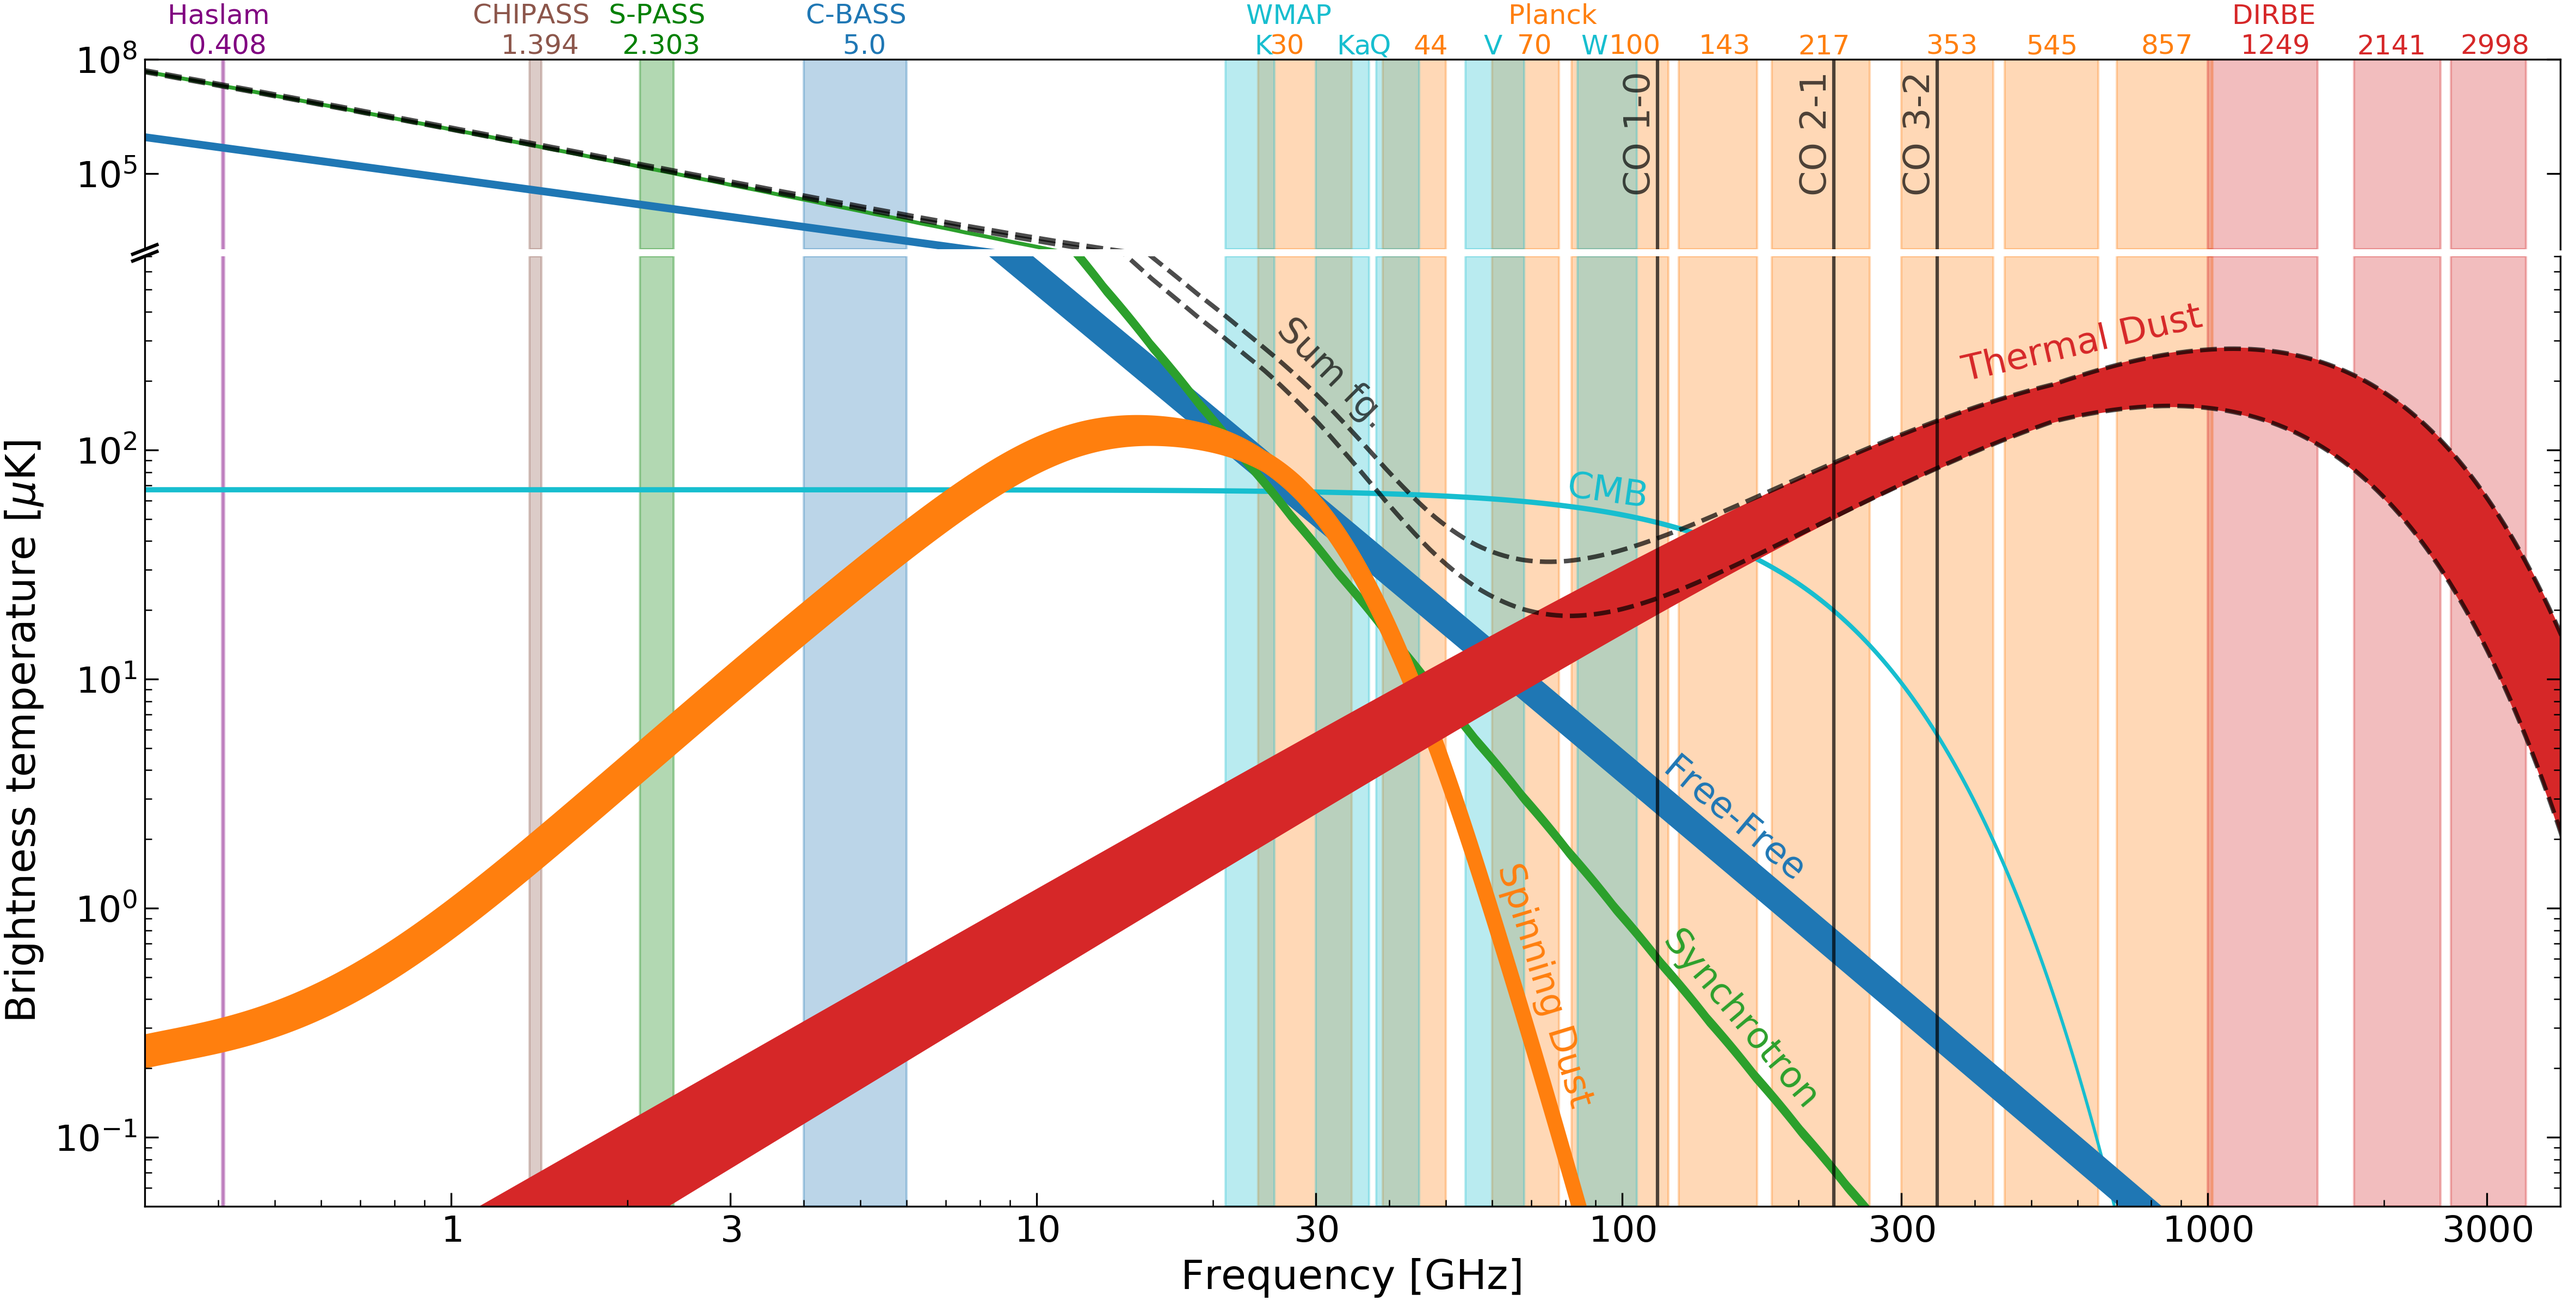
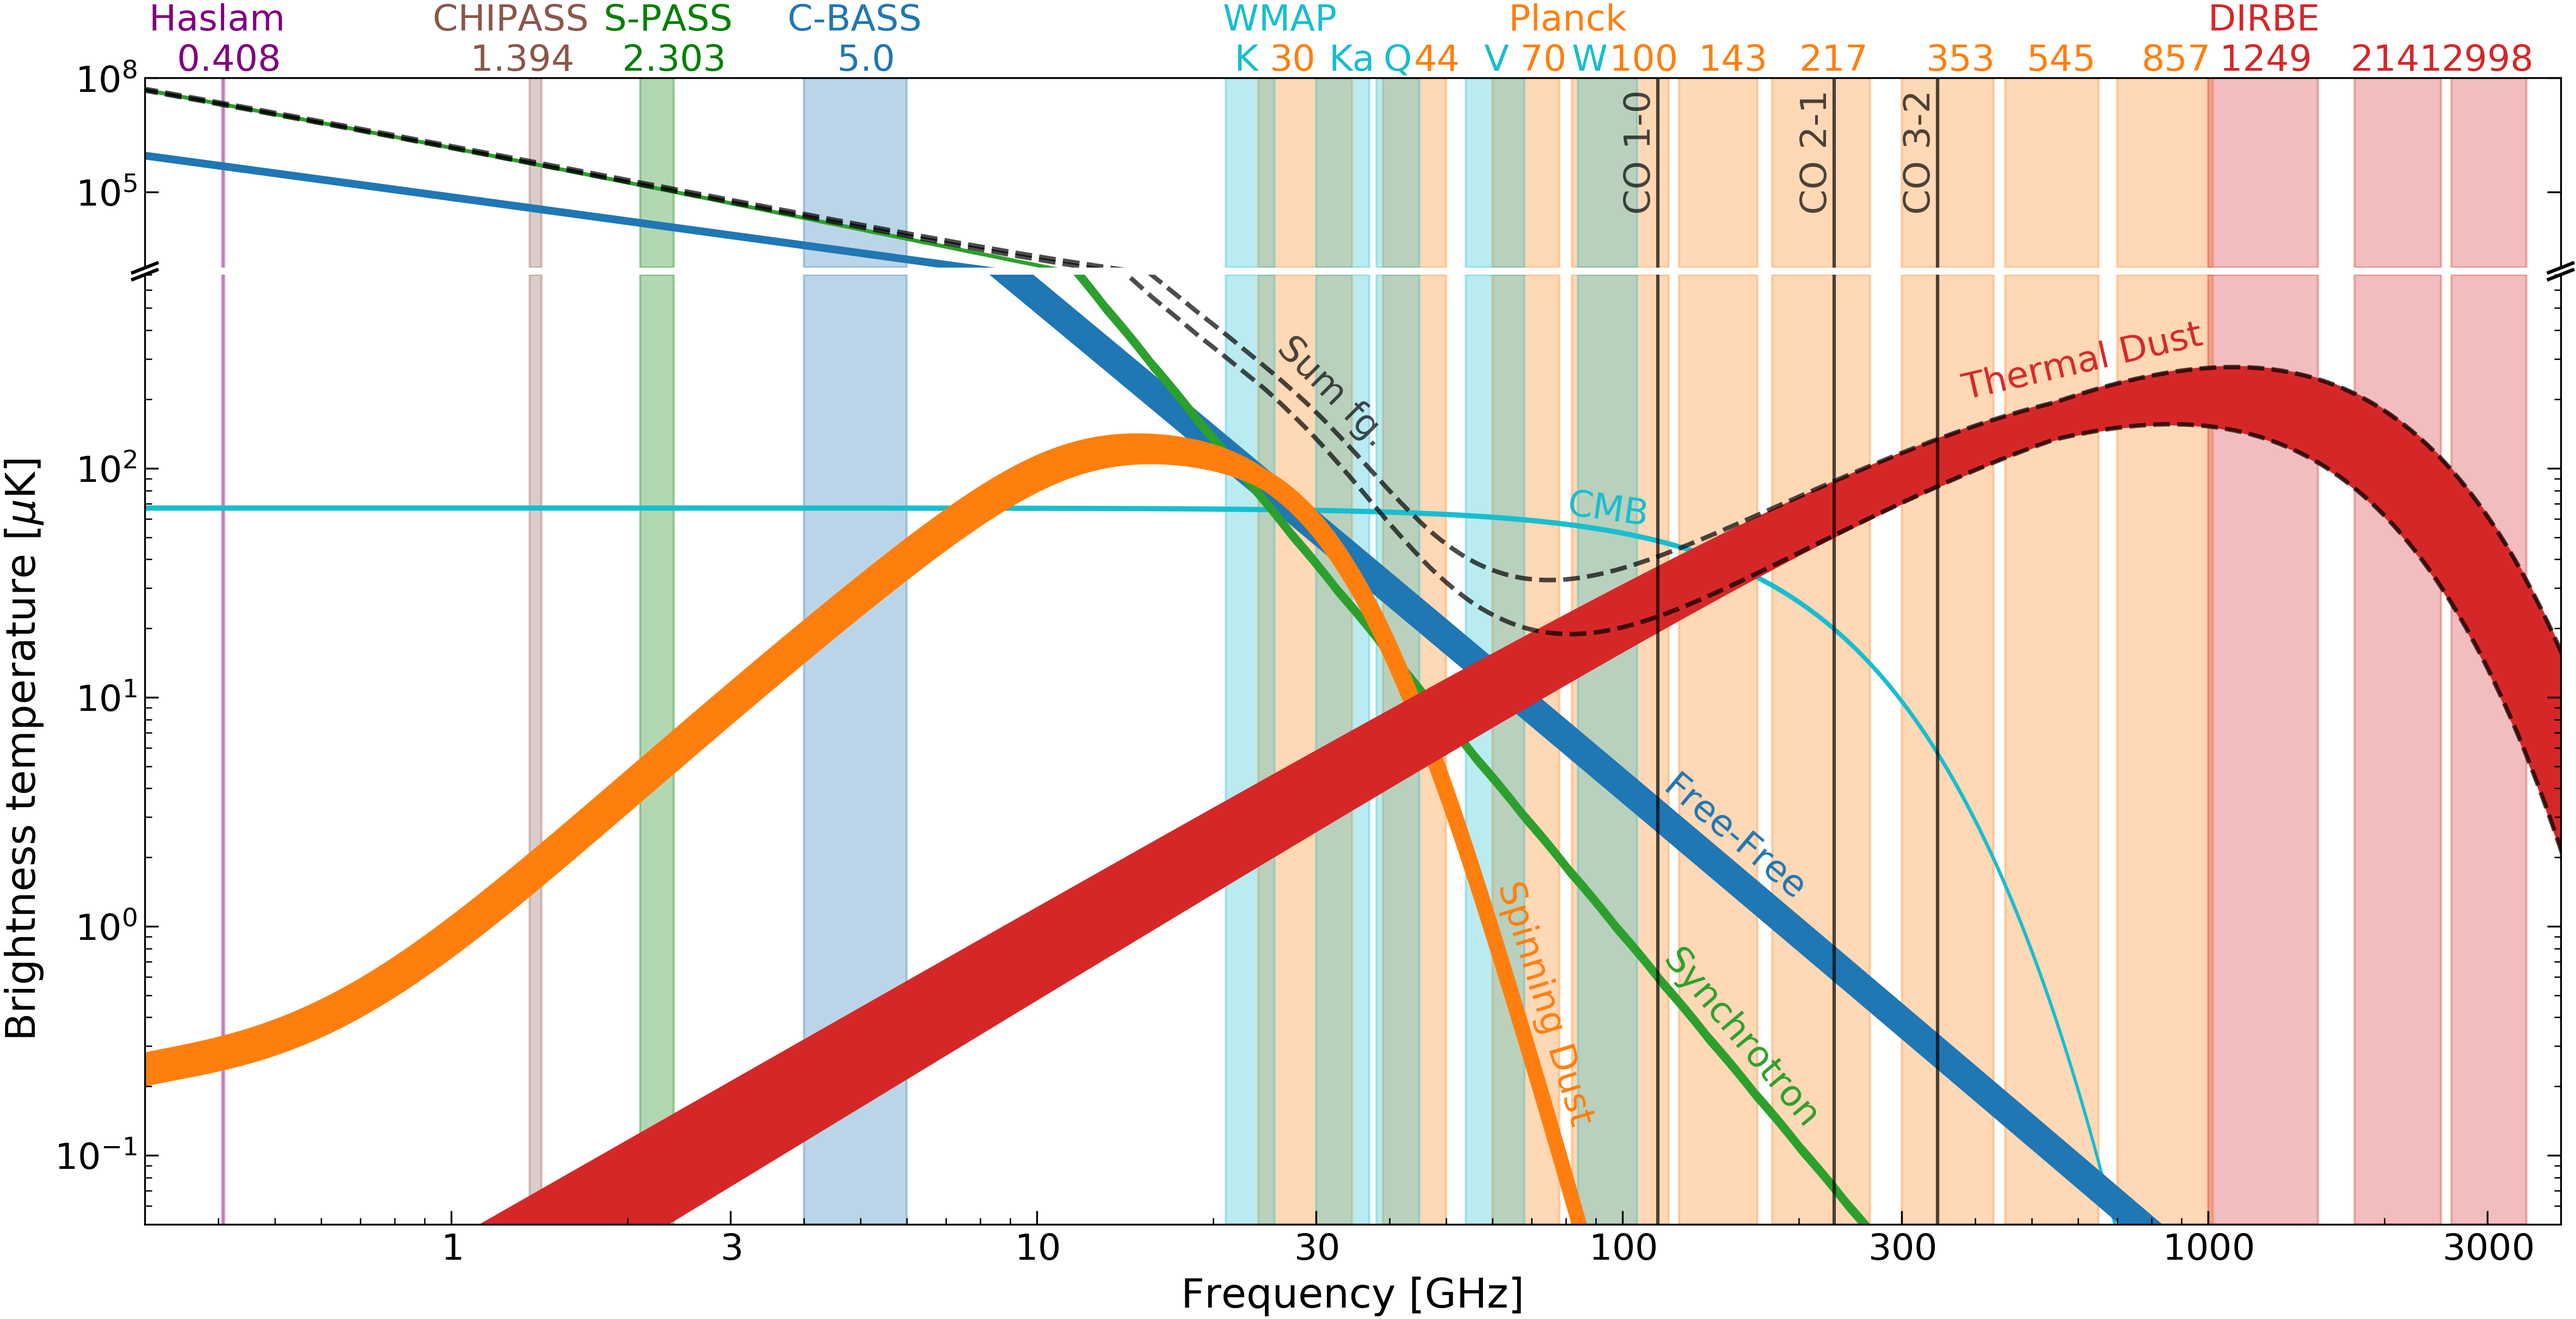
Increased column textsize, fixed brokenaxis

diff --git a/spectrum.py b/spectrum.py
@@ -87,7 +87,7 @@ def lf(nu,Alf,betalf):
 
 
 # ---- Calculating spectra ----
-pol = True
+pol = False
 long = True
 
 N = 1000
@@ -170,21 +170,21 @@ if long:
     ymax=7e2
     ymax2=1e8#ymax+1e8
     ymax15=1000#ymax+500
-    freqtext = 12
-    fgtext = 16
 
     fig, (ax2, ax) = plt.subplots(2,1,sharex=True,figsize=(16,8),gridspec_kw = {'height_ratios':[1, ratio]})
     ax2.spines['bottom'].set_visible(False)
     ax.spines['top'].set_visible(False)
-    ax2.tick_params(labelbottom='off')
+    ax2.tick_params(labelbottom=False)
     ax2.xaxis.set_ticks_position('none')
 
     # ---- Adding broken axis lines ----
     d = .005  # how big to make the diagonal lines in axes coordinates
     kwargs = dict(transform=ax2.transAxes, color='k', clip_on=False)
     ax2.plot((-d, +d), (-d*ratio, + d*ratio), **kwargs)        # top-left diagonal
+    ax2.plot((1 - d, 1 + d), (-d*ratio, +d*ratio), **kwargs)  # top-right diagonal
     kwargs.update(transform=ax.transAxes)  # switch to the bottom axes
     ax.plot((-d, +d), (1 - d, 1 + d), **kwargs)  # bottom-left diagonal
+    ax.plot((1 - d, 1 + d), (1 - d, 1 + d), **kwargs)  # bottom-right diagonal
 
 else:
     xmin=10
@@ -193,11 +193,14 @@ else:
     ymax=7e2
     ymax2=ymax
     ymax15=ymax
-    freqtext = 12
-    fgtext = 16
 
     fig, ax = plt.subplots(1,1,figsize=(12,8))
     ax2 = ax
+
+freqtext = 16
+fgtext = 16
+labelsize = 18
+ticksize = 16
 
 
 if pol:
@@ -338,7 +341,7 @@ if long:
         ax2.axvspan(band_range1[0],band_range1[1],color='purple',alpha=baralpha, zorder=0)
 
     if spass:
-        ax2.text(np.mean(band_range2),ymax2-0.2," S-PASS \n 2.303",color='green',va='bottom',horizontalalignment='center', size = freqtext)
+        ax2.text(np.mean(band_range2)+.1 ,ymax2-0.2," S-PASS \n 2.303",color='green',va='bottom',horizontalalignment='center', size = freqtext)
         ax.axvspan(band_range2[0],band_range2[1],color='green',alpha=baralpha, zorder=0, label="S-PASS")
         ax2.axvspan(band_range2[0],band_range2[1],color='green',alpha=baralpha, zorder=0)
 
@@ -348,7 +351,7 @@ if long:
         ax2.axvspan(band_range20[0],band_range20[1],color='C0',alpha=baralpha, zorder=0)
 
     if chipass and not pol:
-        ax2.text(np.mean(band_range27),ymax2-0.2,"CHIPASS \n 1.394",color='C5', va='bottom',horizontalalignment='center', size = freqtext)
+        ax2.text(np.mean(band_range27)-0.1,ymax2-0.2,"CHIPASS \n 1.394",color='C5', va='bottom',horizontalalignment='center', size = freqtext)
         ax.axvspan(band_range27[0],band_range27[1],color='C5',alpha=baralpha, zorder=0,label='CHIPASS')
         ax2.axvspan(band_range27[0],band_range27[1],color='C5',alpha=baralpha, zorder=0)
 
@@ -414,11 +417,11 @@ if planck:
 
 # ---- Plotting WMAP ----
 if wmap:
-    ax2.text(22.8,ymax2-0.2,"WMAP \n K ", color='C9' ,va='bottom',alpha=1, size = freqtext)
-    ax2.text(31.5+1,ymax2-0.2,"Ka",color='C9', va='bottom',alpha=1, size = freqtext)
-    ax2.text(39.-2, ymax2-0.2,"Q", color='C9' ,va='bottom',alpha=1, size = freqtext)
-    ax2.text(58., ymax2-0.2,"V", color='C9' ,va='bottom',alpha=1, size = freqtext)
-    ax2.text(90.-5, ymax2-0.2,"W", color='C9' ,va='bottom',alpha=1, size = freqtext)
+    ax2.text(22.8 -2  , ymax2-0.2,"WMAP \n K ", color='C9' ,va='bottom',alpha=1, size = freqtext)
+    ax2.text(31.5   , ymax2-0.2,"Ka",color='C9', va='bottom',alpha=1, size = freqtext)
+    ax2.text(39.  , ymax2-0.2,"Q", color='C9' ,va='bottom',alpha=1, size = freqtext)
+    ax2.text(58.    , ymax2-0.2,"V", color='C9' ,va='bottom',alpha=1, size = freqtext)
+    ax2.text(90.-8   , ymax2-0.2,"W", color='C9' ,va='bottom',alpha=1, size = freqtext)
 
     ax.axvspan(band_range3[0],band_range3[1],color='C9',alpha=baralpha, zorder=0,label='WMAP')
     ax.axvspan(band_range4[0],band_range4[1],color='C9',alpha=baralpha, zorder=0)
@@ -434,9 +437,9 @@ if wmap:
 
 # ---- Plotting DIRBE ----
 if dirbe and not pol and long:
-    ax2.text(1100,ymax2-0.2,"DIRBE \n 1249",color='C3', va='bottom',alpha=1, size = freqtext)
-    ax2.text(1800,ymax2-0.2,"2141",color='C3', va='bottom',alpha=1, size = freqtext)
-    ax2.text(2700,ymax2-0.2,"2998",color='C3', va='bottom',alpha=1, size = freqtext)
+    ax2.text(1000  ,ymax2-0.2,"DIRBE \n 1249",color='C3', va='bottom',alpha=1, size = freqtext)
+    ax2.text(1750  ,ymax2-0.2,"2141",color='C3', va='bottom',alpha=1, size = freqtext)
+    ax2.text(2500  ,ymax2-0.2,"2998",color='C3', va='bottom',alpha=1, size = freqtext)
 
     ax.axvspan(band_range17[0],band_range17[1],color='C3',alpha=baralpha, zorder=0,label='DIRBE')
     ax.axvspan(band_range18[0],band_range18[1],color='C3',alpha=baralpha, zorder=0)
@@ -450,14 +453,14 @@ if dirbe and not pol and long:
 ax.set_xticks(np.append(ax.get_xticks(),[3,30,300,3000]))
 ax.set_xticklabels(np.append(ax.get_xticks(),300))
 ax.xaxis.set_major_formatter(ticker.ScalarFormatter(useMathText=True))
-ax.tick_params(axis='both', which='major', labelsize=16, direction='in')
+ax.tick_params(axis='both', which='major', labelsize=ticksize, direction='in')
 ax.tick_params(which="both",direction="in")
 
-ax2.tick_params(axis='both', which='major', labelsize=16, direction='in')
+ax2.tick_params(axis='both', which='major', labelsize=ticksize, direction='in')
 ax2.tick_params(which="both",direction="in")
 
-plt.ylabel(r"Brightness temperature [$\mu$K]",fontsize=18)
-plt.xlabel(r"Frequency [GHz]",fontsize=18)
+plt.ylabel(r"Brightness temperature [$\mu$K]",fontsize=labelsize)
+plt.xlabel(r"Frequency [GHz]",fontsize=labelsize)
 
 if long:
     ax2.set_ylim(ymax15,ymax2)
